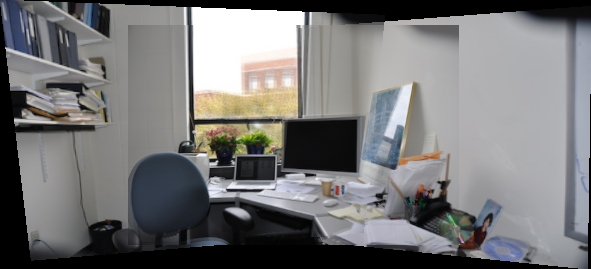
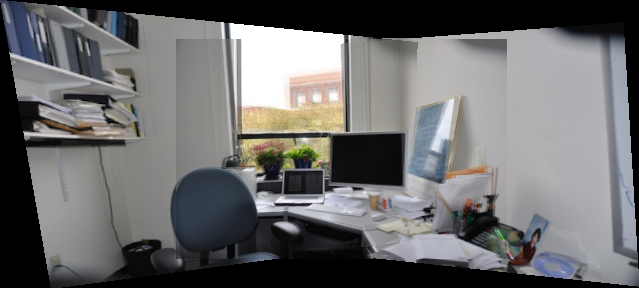
improve corner detector

diff --git a/harris_corner_detector.py b/harris_corner_detector.py
@@ -3,7 +3,6 @@ import numpy as np
 # Non-maximum suppression
 from skimage.feature import peak_local_max
 
-
 def size_gaussian_mask(std):
 
     size=5*std
@@ -97,6 +96,11 @@ def detect_features(img):
     OUTPUT
      - mask of the same size as the img with 1s at the corners locations
     """
+
+    # apply a smoothing filter, because derivatives are very sensitive to noise
+    std = 0.5
+    img = apply_Gauss_smoothing(img, std)
+
     # create kernel for Sobel mask
     kernel_x = np.array([[-1, 0, 1], [-2, 0, 2], [-1, 0, 1]])
     kernel_y = np.array([[-1, -2, -1], [0, 0, 0], [1, 2, 1]])
@@ -110,21 +114,27 @@ def detect_features(img):
     I_y2 = np.square(I_y)
     I_xy = I_x * I_y
 
-    # Smooth out with a gauss filtering
+    """# Smooth out with a gauss filtering
     std = 0.7
 
     I_x2 = apply_Gauss_smoothing(I_x2, std)
     I_y2 = apply_Gauss_smoothing(I_y2, std)
-    I_xy = apply_Gauss_smoothing(I_xy, std)
+    I_xy = apply_Gauss_smoothing(I_xy, std)"""
 
-    # we will use a C matrix of 1 × 1 neighborhood to save computations
-    # so it is just C=[[I_x2, I_xy],[I_xy, I_y2]] at the corresponding pixel value
+    R = np.zeros_like(img)
 
-    # compute the score R instead of the eigenvalues
-    det=(I_x2*I_y2)-(I_xy*I_xy)
-    trace=I_x2+I_y2
+    # we compute the C matrix using a neighborhood of 7x7 (ignoring borders)
+    for i in range(3, img.shape[0]-3):
+        for j in range(3, img.shape[1]-3):
+            I_x2_sum=I_x2[i-3:i+4, j-3:j+4].sum()
+            I_y2_sum=I_y2[i-3:i+4, j-3:j+4].sum()
+            I_xy_sum=I_xy[i-3:i+4, j-3:j+4].sum()
 
-    R=det-0.05*(trace**2)
+            # compute the score R instead of the eigenvalues
+            det=(I_x2_sum*I_y2_sum)-(I_xy_sum*I_xy_sum)
+            trace=I_x2_sum+I_y2_sum
+
+            R[i,j]=det-0.05*(trace**2)
 
     # when R>0 and relativelly big (bigger than threshold), we have a corner
     # return a list of the [x y] coordinates where there is a corner

diff --git a/homography_RANSAC.py b/homography_RANSAC.py
@@ -48,8 +48,8 @@ def estimate_homography(corresp):
     best_inliers = None
     best_score = 0
 
-    thr = 10
-    max_iter = 500 #number of iterations 
+    thr = 7.5
+    max_iter = 1000 #number of iterations 
     iter=0
     exit = False
     while iter < max_iter and not exit:
@@ -84,7 +84,7 @@ def estimate_homography(corresp):
             best_score = score
             print("current best score: ", best_score)
 
-            if best_score > max((len(corresp)/2)+1,4):
+            if best_score > max((len(corresp)/2),4):
                 # Is good enough
                 exit=True
 

diff --git a/main.py b/main.py
@@ -27,7 +27,6 @@ images = [iio.imread(uri='DanaOffice/DSC_0308.JPG'),
           iio.imread(uri='DanaOffice/DSC_0310.JPG')]
 
 # convert to grey images and reduce them by a scaling factor
-images.reverse()
 grey_images = []
 scale = 0.65
 
@@ -35,6 +34,7 @@ for i in range(len(images)):
     h, w = images[i].shape[0], images[i].shape[1]
     images[i] = cv2.resize(images[i], (int(scale*w), int(scale*h)))
     grey_images.append(rgb_to_gray(images[i]))
+
 
 ##################
 # Detect features of each image
